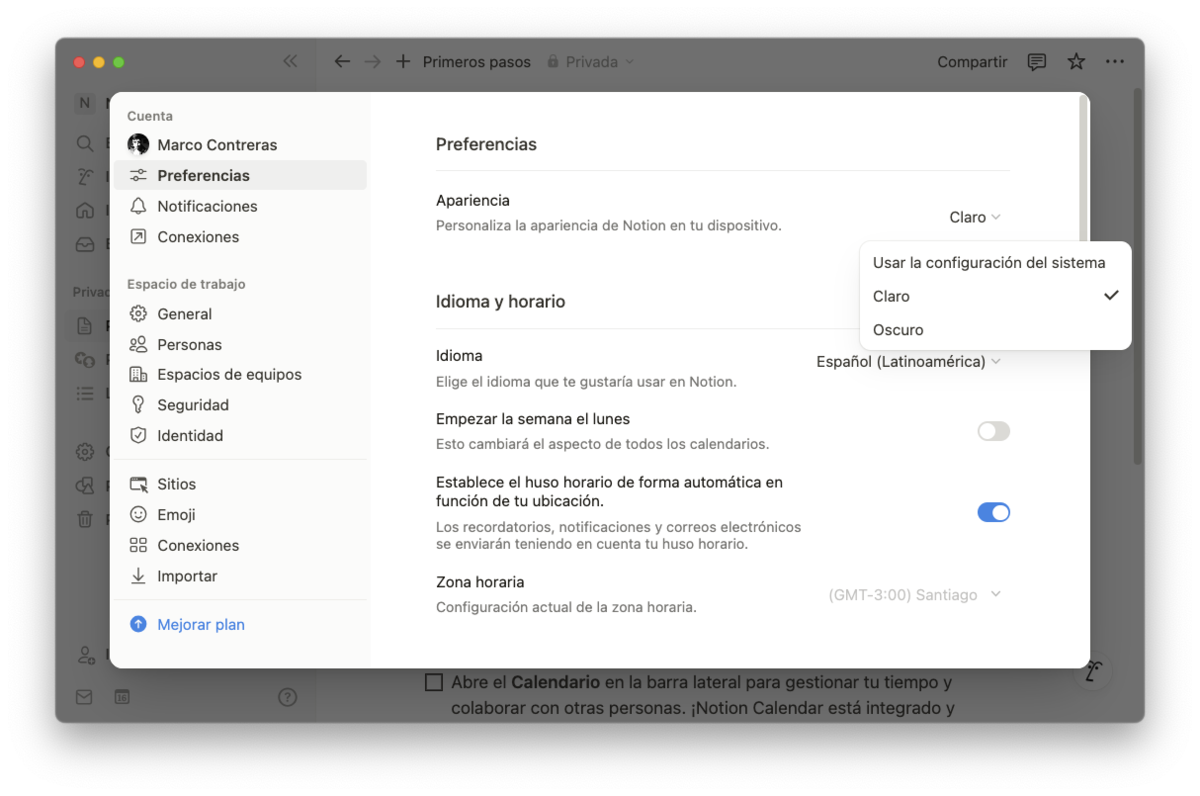
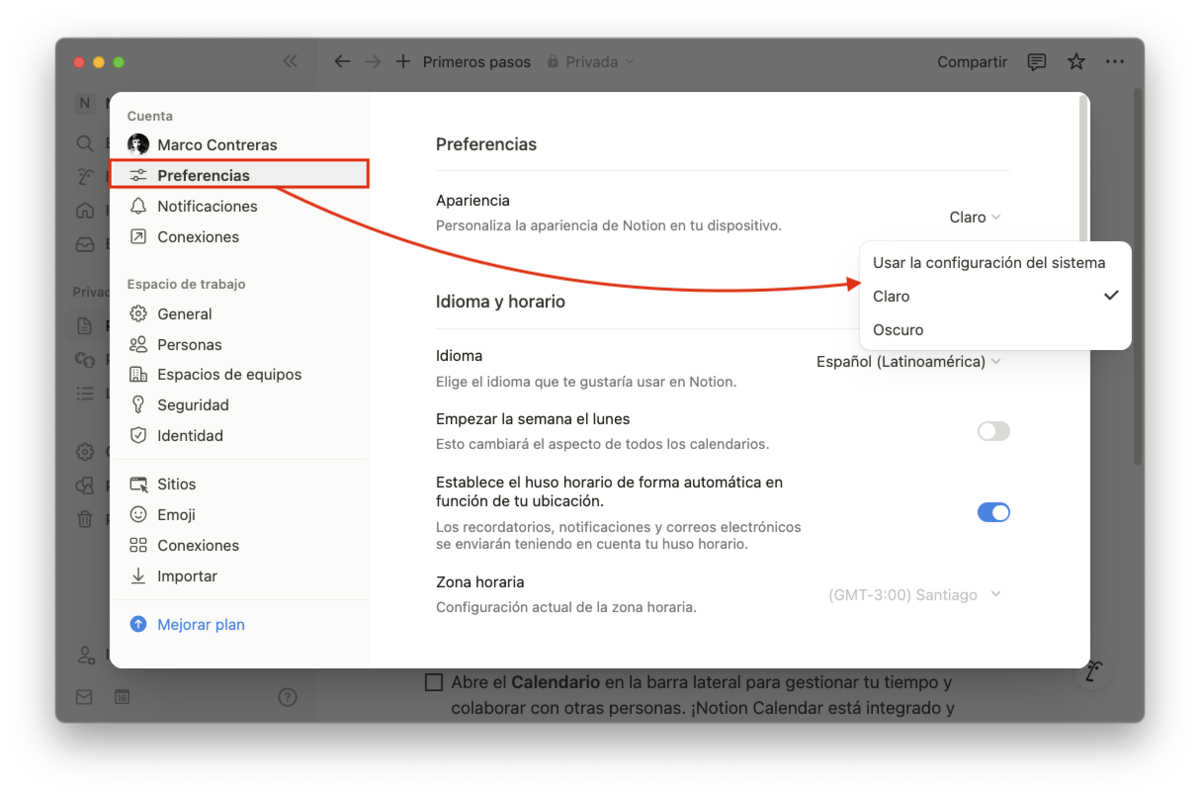
up: content

diff --git a/_posts/tutoriales/2024-01-01-tutorial-notion.md b/_posts/tutoriales/2024-01-01-tutorial-notion.md
@@ -15,11 +15,13 @@ pin: true
 
 ## __¿Qué es Notion?__
 
-Notion es una herramienta **todo-en-uno** que permite gestionar notas, proyectos, crear bases de datos y colaborar en equipo. Su versatilidad permite que se use tanto para organización personal como para trabajo en equipo. En lugar de cambiar entre diferentes aplicaciones, puedes usar Notion como una única plataforma para gestionar tus proyectos. 
+Notion es una herramienta **todo-en-uno** que permite gestionar notas, proyectos, crear bases de datos y colaborar en equipo. Su versatilidad permite que se use tanto para organización personal como para trabajo en equipo. En lugar de cambiar entre diferentes aplicaciones, puedes usar Notion como una única plataforma para gestionar tus proyectos, estudios, etc.
+
+![web oficial Notion](tutoriales/notion-web-oficial-section-3.webp)
 
 ### __¿Es Notion gratuito?__
 
-Notion es gratuito, pero también ofrece tres planes de pago: **Personal Pro**, **Team** y **Enterprise**. La versión gratuita incluye páginas y bloques ilimitados, integraciones con otras aplicaciones. Antiguamente se podía tener hasta cinco invitados en un espacio de trabajo con bloques ilimitados y un límite de **carga de archivos de 5 MB** por archivo. Sin embargo, ahora han cambiado su modelo y, para mantener bloques ilimitados en el plan gratuito, ya no se pueden añadir invitados en los espacios de trabajo. Si deseas colaborar con otros usuarios, es necesario optar por un plan de pago.
+Notion es gratuito, pero también ofrece tres planes de pago: **Personal Pro**, **Team** y **Enterprise**. La versión gratuita incluye **páginas** y **bloques ilimitados**, integraciones con otras aplicaciones, espacios de trabajos, entre otras cosas. Antiguamente se podía tener hasta cinco invitados en un espacio de trabajo con bloques ilimitados y un límite de carga de archivos de 5 MB por archivo. Sin embargo, ahora han cambiado su modelo y, para mantener bloques ilimitados en el plan gratuito, ya no se pueden añadir invitados en los espacios de trabajo. Si deseas colaborar con otros usuarios, es necesario optar por un plan de pago.
 
 ## __Ventajas y Desventajas de Notion__
 
@@ -64,51 +66,48 @@ Una vez creamos una cuenta para usar Notion, la primera vez que iniciamos sesió
 
 ![Setup notion](tutoriales/notion-custom-1.webp)
 
-## __Cambiar la Apariencia__
 
-Desde la barra laterar en la parte superior, podemos encontrar el botón para ir a la configuraciones.
+## __Personalizar Notion__
+
+Desde la barra lateral izquierda, en la parte superior, podemos encontrar el botón para ir a la configuraciones.
+
+![Ir a configuraciones](tutoriales/notion-ir-a-configuraciones.webp)
+
+> Desde las configuraciones, **puedes ajustar las preferencias** como **idioma**, **temas**, **notificaciones**, personalizar **espacios de trabajos y permisos**, etc.
+{: .prompt-info }
+
+### __Cambiar la Apariencia__
 
 En **Preferencias** vamos a la sección de **Apariencia** y podemos cambiar entre temas **Oscuro/Claro**:
 
 ![Cambiar de tema](tutoriales/notion-custom-theme.webp)
 
+En las siguientes secciones, vamos a ver sobre lo que es importante en Notion. Uno de los conceptos clave que debes entender para dominar y sacarle el máximo provecho a la plataforma, es la diferencia entre **páginas** y **bloques**
 
-## __Publicar Páginas__
+## __Páginas 📄 VS. Bloques 🧩__
 
-En Notion, puedes compartir una página con otras personas haciéndola pública. Esto es útil para difundir información, colaborar en proyectos o crear documentos accesibles en línea.
+En Notion, entender la diferencia entre **páginas** y **bloques** es la clave para organizar tu información de manera eficiente. Aunque pueden parecer similares al principio, cumplen funciones distintas. Por eso, te explicaré estas diferencias.
 
-### **Instrucciones:**
+### __¿Qué son las Páginas en Notion?__
 
-- Abre la página en Notion.  
-- Haz clic en **"Compartir"** (arriba a la derecha).  
-- Activa **"Compartir en la web"**.  
-- Ajusta los permisos según lo que necesites.  
-- Copia el enlace y compártelo.
+Las páginas en Notion son el contenedor principal de información. Puedes pensar en las páginas como documentos en blanco donde agregas contenido, pero también funcionan como **carpetas** porque pueden contener otras páginas dentro. Por ejemplo, si tienes una página llamada "**Trabajo**", dentro de ella podrías tener otras páginas:
 
-{% tabs iln_publish %}
-{% tab iln_publish Paso 1 %}
-![Publicar Contenido De Páginas de Notion Paso 1](tutoriales/notion-publish-page.webp)
-{% endtab %}
-{% tab iln_publish Paso 2 %}
-![Publicar Contenido De Páginas de Notion Paso 2](tutoriales/notion-publish-page2.webp)
-{% endtab %}
-{% tab iln_publish Paso 3 %}
-![Publicar Contenido De Páginas de Notion Paso 3](tutoriales/notion-publish-page3.webp)
-{% endtab %}
-{% endtabs %}
+![página como contenedor de otras páginas](tutoriales/notion-pagina-contenedor-otras-paginas.webp)
+_Página como contenedor de otras páginas_
 
-> Para dejar de compartir, desactiva **"Compartir en la web"** que la puedes desplegar al presionar nuevamente en el botón **Compartir**.
-{: .prompt-info }
+Cada una de esas páginas puede contener más información, incluso otras páginas, creando un sistema jerárquico dentro de la plataforma.
 
-### __Cambiar el Nombre de Dominio__
+### __¿Qué son los Bloques en Notion?__
 
-En la versión gratuita, se puede cambiar el nombre del dominio. Para ello debes entrar a **configuraciones** y en la opción **Sitios** actualiza el nombre de dominio:
+En notion, **todo es un bloque**. Cada texto, imagen, lista o base de datos o cualquier cosa que agregas dentro de una página es un bloque individual. Si volvemos al ejemplo anterior, dentro de la página "**Trabajo**" ya tenemos varios bloques:
 
-![Cambiar el nombre de dominio](tutoriales/notion-update-domain.webp)
+- El título principal (**nombre de la página**) ➝ Es un bloque de encabezado especial.
+- Cada página dentro de otra ➝ Es un bloque de tipo "página".
+- Saltos de líneas ➝ Es un bloque de texto vácio.
 
-## __Uso de Bloques: La Esencia de Notion__
+## __Uso de Bloques y Tipos de Bloques__
 
-Todo en Notion funciona con "bloques", un bloque puede ser texto, imágenes, listas, bases de datos y más. La mejor manera de familiarizarse con Notion es probar algunos bloques, simplemente escriba `/` y verá todas las opciones:
+Como sabemos, todo en Notion funciona con "bloques", un bloque puede ser texto, imágenes, listas, bases de datos y más. La mejor manera de familiarizarse con Notion es probar algunos bloques, simplemente escriba `/` y verá todas las opciones:
 
 ![Crear un bloque](tutoriales/notion-create-a-block.webp)
 
@@ -126,7 +125,6 @@ Viñetas, numeradas o listas de tareas (`/todo`):
 
 ![Bloques de listas](tutoriales/notion-using-list-block.webp)
 
-
 #### __Imágenes y Videos__
 
 Adjunta archivos o incrusta enlaces (`/imagen`, `/video`):
@@ -141,6 +139,16 @@ Adjunta archivos o incrusta enlaces (`/imagen`, `/video`):
 En Notion, todos los bloques se pueden convertir en bloques de otro tipo, para usar, ver o profundizar en esa misma información de una forma distinta:
 
 ![convertir bloques](tutoriales/notion-convert-block.webp)
+
+## __Organizar Bloques__
+
+En Notion, podemos organizar la información de muchas maneras, usando páginas, listas, tablas y más. Pero una de las formas más efectivas para estructurar contenido de manera visual es **usando columna**.
+
+### __Cómo Crear Columnas__
+
+Aunque Notion no tiene un botón directo para crear columnas, podemos hacerlo de forma muy sencilla con **arrastrar y soltar**.
+
+![Poner contenido en columnas](tutoriales/notion-crear-columnas.webp)
 
 ## __Bases de Datos__
 
@@ -167,3 +175,37 @@ Estos son algunos ejemplos de datos que puedes utilizar:
 
 **Archivos y multimedia**
 : Te permite subir archivos, imágenes y otros archivos relacionados con tus datos.
+
+
+## __Publicar Páginas__
+
+En Notion, puedes compartir tus páginas con otras personas haciéndola pública. Esto es útil para difundir información con otras personas o crear documentos accesibles en línea.
+
+### **Instrucciones:**
+
+- Abre la página en Notion.  
+- Haz clic en **"Compartir"** (arriba a la derecha).  
+- Activa **"Compartir en la web"**.  
+- Ajusta los permisos según lo que necesites.  
+- Copia el enlace y compártelo.
+
+{% tabs iln_publish %}
+{% tab iln_publish Paso 1 %}
+![Publicar Contenido De Páginas de Notion Paso 1](tutoriales/notion-publish-page.webp)
+{% endtab %}
+{% tab iln_publish Paso 2 %}
+![Publicar Contenido De Páginas de Notion Paso 2](tutoriales/notion-publish-page2.webp)
+{% endtab %}
+{% tab iln_publish Paso 3 %}
+![Publicar Contenido De Páginas de Notion Paso 3](tutoriales/notion-publish-page3.webp)
+{% endtab %}
+{% endtabs %}
+
+> Para dejar de compartir, desactiva **"Compartir en la web"** que la puedes desplegar al presionar nuevamente en el botón **Compartir**.
+{: .prompt-info }
+
+### __Cambiar el Nombre de Dominio__
+
+En la versión gratuita, tu dominio siempre tendrá `notion.site`, pero se puede cambiar el nombre para cuando publiques una página se vea como `minombre.notion.site`. Para ello debes entrar a **configuraciones** y en la opción **Sitios** actualiza el nombre de dominio:
+
+![Cambiar el nombre de dominio](tutoriales/notion-update-domain.webp)
